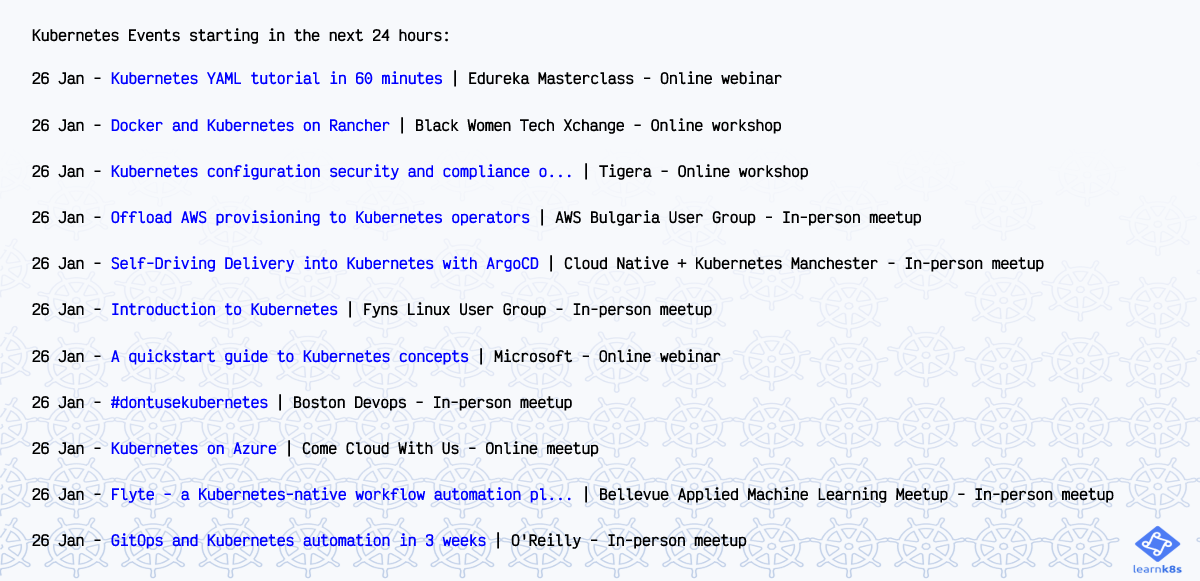
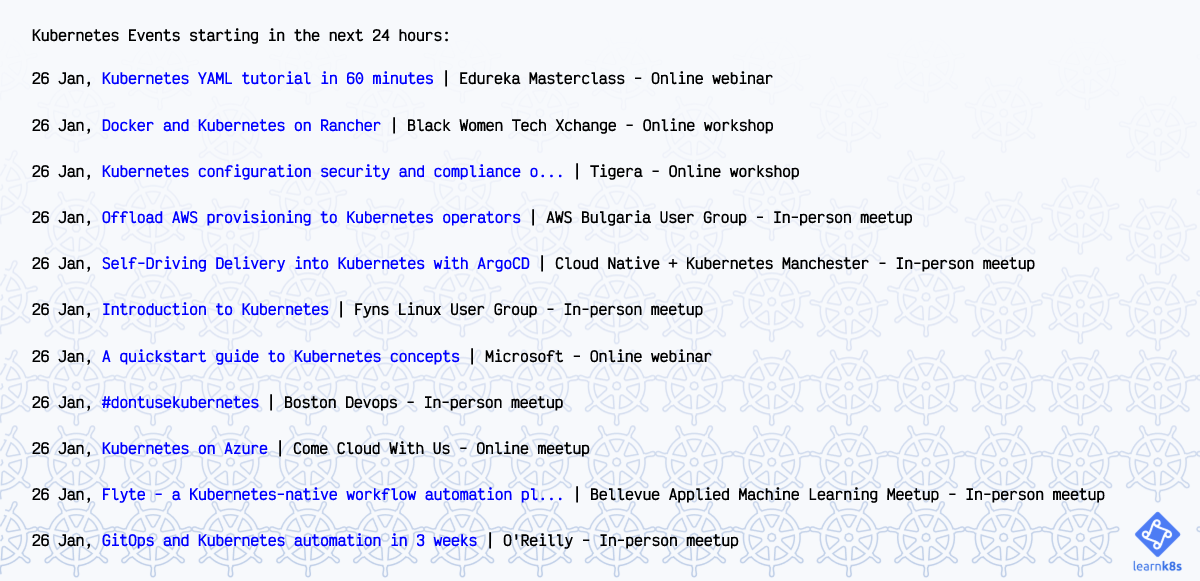
change bg image width and height

diff --git a/src/main.tsx b/src/main.tsx
@@ -90,13 +90,11 @@ const template = (
     }}
   >
     <img
-      width="34"
-      height="500"
+      width="1200"
+      height="630"
       src={bottomImg}
       style={{
         position: "absolute",
-        width: "100vw",
-        height: "10vh",
         bottom: 0,
       }}
     />
@@ -111,7 +109,7 @@ const template = (
             whiteSpace: "pre-wrap",
           }}
         >
-          {date} -{" "}
+          {date},{" "}
           <a href="#" style={{ color: "blue" }}>
             {title.length > 50 ? title.slice(0, 50) + "..." : title}
           </a>{" "}
